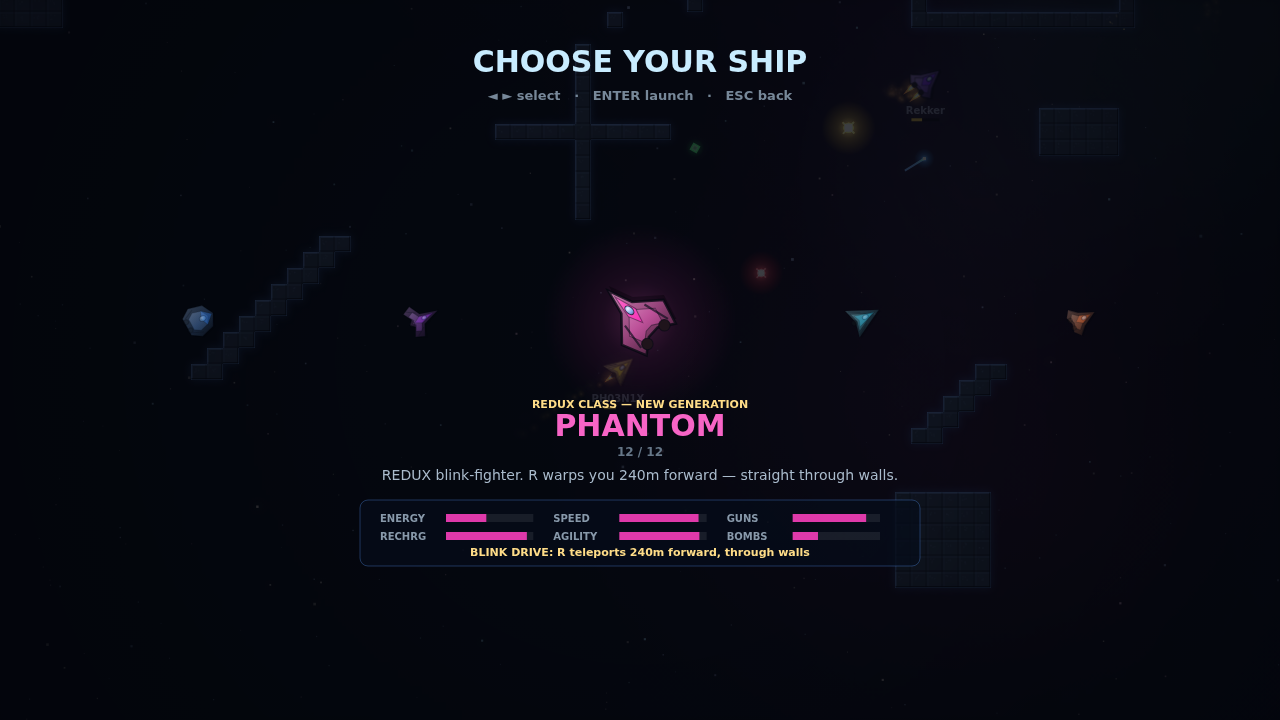
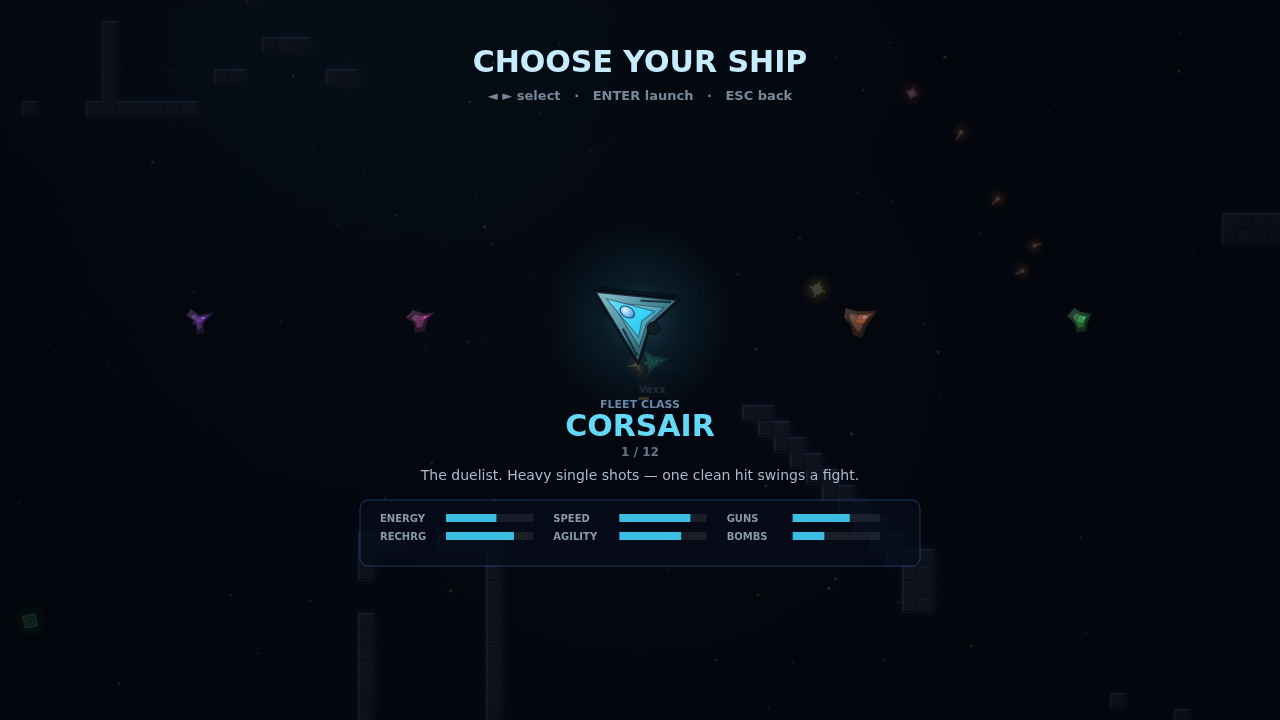
Make Interstellar fully standalone: new fleet names, no tribute credits
Rename the eight fleet hulls to original Interstellar names:
Corsair, Meteor, Hornet, Titan, Comet, Dagger, Paladin, Warden
(same roles and stats; internal type keys renamed to match). The NOVA
class (Vanguard, Aegis, Reaper, Phantom) is unchanged.

Remove the remaining inspiration credits: the title-screen line, README
references, and code comments now describe the game entirely in its own
terms. Select screen labels the base hulls FLEET CLASS.

Claude-Session: https://claude.ai/code/session_01B8hcSvZjcaomtossQcuxbY

diff --git a/sim.js b/sim.js
@@ -3,7 +3,7 @@
    Runs identically in the browser (window.SIM) and Node (module.exports).
    No DOM, no audio, no rendering — pure world state + events.
 
-   Netcode model (SubSpace-style relay):
+   Netcode model (owner-trusting relay):
    - Each peer fully simulates its LOCAL ships (the player on a client,
      the bots on the server). Remote ships are "ghosts": position-driven
      from network state, never damaged locally, but targetable/collidable.
@@ -42,14 +42,14 @@
   }
 
   // ------------------------------------------------------------ ship types
-  // Full classic SubSpace roster. Visual fields (shape/accent/deco/cockpit/
+  // The Interstellar fleet. Visual fields (shape/accent/deco/cockpit/
   // engines) are unit-space polygons scaled by radius at draw time, nose +x.
-  const SHIP_ORDER = ['warbird', 'javelin', 'spider', 'leviathan', 'terrier', 'weasel', 'lancaster', 'shark',
+  const SHIP_ORDER = ['corsair', 'meteor', 'hornet', 'titan', 'comet', 'dagger', 'paladin', 'warden',
     'vanguard', 'aegis', 'reaper', 'phantom'];
   const SHIP_TYPES = {
-    warbird: {
-      label: 'Warbird', hue: 192,
-      desc: 'The classic duelist. Heavy single shots — one clean hit swings a fight.',
+    corsair: {
+      label: 'Corsair', hue: 192,
+      desc: 'The duelist. Heavy single shots — one clean hit swings a fight.',
       maxEnergy: 1500, recharge: 105, thrust: 235, maxSpeed: 350, turn: 3.4,
       radius: 11, bounce: 0.6,
       gunLevel: 2, gunDelay: 0.55, gunCost: 150, gunSpeed: 680, gunDmgMul: 1.15,
@@ -59,8 +59,8 @@
       deco: [[[0.25, 0.42], [-0.42, 0.8]], [[0.25, -0.42], [-0.42, -0.8]]],
       cockpit: [0.38, 0, 0.2, 0.13], engines: [[-0.4, 0]],
     },
-    javelin: {
-      label: 'Javelin', hue: 18,
+    meteor: {
+      label: 'Meteor', hue: 18,
       desc: 'Bomber. Splash artillery with bouncing bombs that clear whole corridors.',
       maxEnergy: 1700, recharge: 95, thrust: 200, maxSpeed: 310, turn: 3.0,
       radius: 12, bounce: 0.5,
@@ -71,8 +71,8 @@
       deco: [[[0.1, 0.5], [-0.35, 0.9]], [[0.1, -0.5], [-0.35, -0.9]]],
       cockpit: [0.32, 0, 0.19, 0.13], engines: [[-0.62, 0.3], [-0.62, -0.3]],
     },
-    spider: {
-      label: 'Spider', hue: 130,
+    hornet: {
+      label: 'Hornet', hue: 130,
       desc: 'Bullet hose. Weak pellets, relentless rate of fire, monster recharge.',
       maxEnergy: 1400, recharge: 135, thrust: 215, maxSpeed: 330, turn: 3.6,
       radius: 11, bounce: 0.55,
@@ -83,8 +83,8 @@
       deco: [[[0.3, 0.55], [-0.1, 0.95]], [[0.3, -0.55], [-0.1, -0.95]], [[-0.2, 0.7], [-0.6, 0.72]], [[-0.2, -0.7], [-0.6, -0.72]]],
       cockpit: [0.3, 0, 0.17, 0.14], engines: [[-0.55, 0.36], [-0.55, -0.36]],
     },
-    leviathan: {
-      label: 'Leviathan', hue: 355,
+    titan: {
+      label: 'Titan', hue: 355,
       desc: 'The dreadnought. Glacial, colossal energy, level-3 bombs that erase rooms.',
       maxEnergy: 2600, recharge: 70, thrust: 125, maxSpeed: 240, turn: 2.1,
       radius: 15, bounce: 0.4,
@@ -95,8 +95,8 @@
       deco: [[[0.3, 0.72], [-0.7, 0.72]], [[0.3, -0.72], [-0.7, -0.72]], [[-0.2, 0.45], [-0.2, -0.45]]],
       cockpit: [0.35, 0, 0.24, 0.19], engines: [[-0.92, 0.28], [-0.92, -0.28]],
     },
-    terrier: {
-      label: 'Terrier', hue: 282,
+    comet: {
+      label: 'Comet', hue: 282,
       desc: 'Interceptor. Fastest hull in the zone — hit, run, and never stop moving.',
       maxEnergy: 1250, recharge: 120, thrust: 285, maxSpeed: 410, turn: 4.3,
       radius: 10, bounce: 0.65,
@@ -107,8 +107,8 @@
       deco: [[[-0.05, 0.5], [-0.75, 0.72]], [[-0.05, -0.5], [-0.75, -0.72]]],
       cockpit: [0.32, 0, 0.18, 0.11], engines: [[-0.55, 0]],
     },
-    weasel: {
-      label: 'Weasel', hue: 55,
+    dagger: {
+      label: 'Dagger', hue: 55,
       desc: 'Assassin. Tiny, half-invisible, off enemy radar. Fragile as glass.',
       maxEnergy: 1000, recharge: 130, thrust: 300, maxSpeed: 430, turn: 4.8,
       radius: 8, bounce: 0.7, stealth: true,
@@ -119,9 +119,9 @@
       deco: [[[0.1, 0.28], [-0.55, 0.28]], [[0.1, -0.28], [-0.55, -0.28]]],
       cockpit: [0.25, 0, 0.15, 0.1], engines: [[-0.55, 0]],
     },
-    lancaster: {
-      label: 'Lancaster', hue: 210,
-      desc: 'The all-rounder. Batwing hull, dependable guns, no bad matchups.',
+    paladin: {
+      label: 'Paladin', hue: 210,
+      desc: 'The all-rounder. Broad wings, dependable guns, no bad matchups.',
       maxEnergy: 1600, recharge: 115, thrust: 225, maxSpeed: 340, turn: 3.2,
       radius: 12, bounce: 0.55,
       gunLevel: 2, gunDelay: 0.42, gunCost: 110, gunSpeed: 640, gunDmgMul: 1.0,
@@ -131,8 +131,8 @@
       deco: [[[0.4, 0.6], [-0.5, 0.6]], [[0.4, -0.6], [-0.5, -0.6]]],
       cockpit: [0.28, 0, 0.19, 0.15], engines: [[-0.75, 0]],
     },
-    shark: {
-      label: 'Shark', hue: 165,
+    warden: {
+      label: 'Warden', hue: 165,
       desc: 'Support hunter. Carries a rack of self-restocking repels and mean bombs.',
       maxEnergy: 1450, recharge: 110, thrust: 240, maxSpeed: 345, turn: 3.5,
       radius: 11, bounce: 0.6, repelStart: 3, repelCap: 4, repelRegen: 18,
@@ -784,7 +784,7 @@
     if (s.safe > 0) s.safe -= dt;
     if (s.flash > 0) s.flash -= dt;
 
-    // shark repel rack regen
+    // warden repel rack regen
     if (s.t.repelRegen) {
       s.regenT += dt;
       if (s.regenT >= s.t.repelRegen) {

diff --git a/dev/smoke.js b/dev/smoke.js
@@ -33,8 +33,8 @@ const SIM = require(path.join(ROOT, 'sim.js'));
 
   SIM.addBots(W, 10);
   assert(W.ships.length === 10, 'ten bots spawned');
-  assert(Object.keys(SIM.SHIP_TYPES).length === 12, '8 classic + 4 NOVA hulls exist');
-  for (const key of ['warbird', 'javelin', 'spider', 'leviathan', 'terrier', 'weasel', 'lancaster', 'shark',
+  assert(Object.keys(SIM.SHIP_TYPES).length === 12, '8 fleet + 4 NOVA hulls exist');
+  for (const key of ['corsair', 'meteor', 'hornet', 'titan', 'comet', 'dagger', 'paladin', 'warden',
     'vanguard', 'aegis', 'reaper', 'phantom'])
     assert(SIM.SHIP_TYPES[key], 'ship type ' + key + ' exists');
 
@@ -45,7 +45,7 @@ const SIM = require(path.join(ROOT, 'sim.js'));
     assert(van.multi && van.bounceBullets, 'vanguard ships factory multifire + ricochet');
 
     const aeg = SIM.makeShip(Wm, 'aegis', 'local', 'Aeg', 215);
-    const wb = SIM.makeShip(Wm, 'warbird', 'local', 'Wb', 190);
+    const wb = SIM.makeShip(Wm, 'corsair', 'local', 'Wb', 190);
     aeg.x = wb.x = 500; aeg.y = wb.y = 500;
     const e0 = aeg.energy;
     SIM.damageShip(Wm, aeg, 1000, wb);
@@ -72,7 +72,7 @@ const SIM = require(path.join(ROOT, 'sim.js'));
     assert(evs.some(e => e.e === 'hit' && typeof e.att === 'number'), 'hit events carry attacker id');
   }
 
-  const me = SIM.makeShip(W, 'warbird', 'local', 'Tester', 190);
+  const me = SIM.makeShip(W, 'corsair', 'local', 'Tester', 190);
   SIM.spawnShip(W, me);
   SIM.drainEvents(W);
 
@@ -97,7 +97,7 @@ const SIM = require(path.join(ROOT, 'sim.js'));
   assert(deaths > 0, 'deaths occurred: ' + deaths);
 
   // remote ghost mechanics
-  const ghost = SIM.makeShip(W, 'weasel', 'remote', 'Ghost', 60);
+  const ghost = SIM.makeShip(W, 'dagger', 'remote', 'Ghost', 60);
   ghost.netX = 500; ghost.netY = 500; ghost.netVx = 0; ghost.netVy = 0; ghost.netFrac = 1;
   ghost.x = 400; ghost.y = 400;
   for (let i = 0; i < 120; i++) SIM.updateWorld(W, SIM.STEP);
@@ -165,8 +165,8 @@ const SIM = require(path.join(ROOT, 'sim.js'));
   for (let i = 0; i < 240; i++) update(STEP);
   render();
 
-  const p = startSolo('leviathan');
-  assert(G.state === 'play' && !p.remote && p.type === 'leviathan', 'solo game started in a leviathan');
+  const p = startSolo('titan');
+  assert(G.state === 'play' && !p.remote && p.type === 'titan', 'solo game started in a titan');
   api.keys.KeyW = true; api.keys.Space = true;
   let sawMsg = false;
   for (let i = 0; i < 30 * 60; i++) {
@@ -180,10 +180,10 @@ const SIM = require(path.join(ROOT, 'sim.js'));
 
   // fake a server welcome to exercise the online path (no real socket)
   G.net = { readyState: 1, send() { }, close() { } };
-  G.online = true; G.name = 'Tester'; G.pendingShip = 'spider';
+  G.online = true; G.name = 'Tester'; G.pendingShip = 'hornet';
   api.handleNet({
     t: 'welcome', id: 501, hue: 8, seed: 777,
-    roster: [{ id: 400, name: 'RemoteBot', ship: 'shark', hue: 100, bot: 1, kills: 0, deaths: 0, score: 0, x: 1000, y: 1000 }],
+    roster: [{ id: 400, name: 'RemoteBot', ship: 'warden', hue: 100, bot: 1, kills: 0, deaths: 0, score: 0, x: 1000, y: 1000 }],
     prizes: [[9, 800, 800]],
   });
   assert(G.player && G.player.id === 501, 'online welcome created player');
@@ -241,10 +241,10 @@ const SIM = require(path.join(ROOT, 'sim.js'));
         setTimeout(() => reject(new Error('welcome timeout for ' + name)), 4000);
       });
     }
-    const A = await client('Alice', 'warbird');
+    const A = await client('Alice', 'corsair');
     assert(A.welcome.id > 0 && Number.isFinite(A.welcome.seed), 'A got welcome with id+seed');
     assert(A.welcome.roster.length === 4, 'A sees 4 bots in roster');
-    const B = await client('Bob', 'shark');
+    const B = await client('Bob', 'warden');
     assert(B.welcome.roster.some(r => r.name === 'Alice'), 'B sees Alice in roster');
 
     // A should be told about B joining

diff --git a/client.js b/client.js
@@ -1,7 +1,7 @@
 /* =========================================================================
    INTERSTELLAR — browser client
-   Rendering (neon + bloom), input, menus, audio, and SubSpace-style
-   relay netcode. All world simulation lives in sim.js (shared with the
+   Rendering (sprites + bloom), input, menus, audio, and the relay
+   netcode client. All world simulation lives in sim.js (shared with the
    server); this file owns everything the player sees and hears.
    ========================================================================= */
 (function () {
@@ -675,9 +675,8 @@
   }
 
   // ---------------------------------------------------------------- ship art
-  // Honors the original Continuum look: ships are solid, metallic, shaded
-  // craft lit from the screen's top-left, rendered through a 36-frame
-  // rotation atlas — exactly how the original's pre-rendered sprites felt.
+  // Ships are solid, metallic, shaded craft lit from the screen's top-left,
+  // rendered through a 36-frame rotation atlas for a crisp baked-sprite feel.
   const ROT_FRAMES = 36;
 
   function tracePolyOn(g, pts, r) {
@@ -902,7 +901,7 @@
   }
 
   // ---------------------------------------------------------------- world render
-  // original SubSpace level colors: L1 red-orange, L2 yellow, L3 blue
+  // weapon level colors: L1 red-orange, L2 yellow, L3 blue
   const BULLET_HUES = { 1: 18, 2: 52, 3: 205 };
   const BOMB_HUES = { 1: 4, 2: 52, 3: 210 };
   function drawWorld() {
@@ -1168,7 +1167,7 @@
         ctx.fillStyle = (G.time * 4 | 0) % 2 ? '#fff' : '#8ef';
         ctx.fillRect(rx + s.x * k - 2, ry + s.y * k - 2, 4, 4);
       } else {
-        if (s.t.stealth) continue; // weasels don't paint on radar
+        if (s.t.stealth) continue; // daggers don't paint on radar
         ctx.fillStyle = 'rgba(255,120,90,0.9)';
         ctx.fillRect(rx + s.x * k - 1.5, ry + s.y * k - 1.5, 3, 3);
       }
@@ -1202,7 +1201,6 @@
     ctx.shadowColor = 'rgba(255,180,80,0.8)';
     txt('T O P - D O W N   S P A C E   C O M B A T', vw / 2, vh / 2 - 26, 16, '#ffd9a0', 'center', 700);
     ctx.restore();
-    txt('inspired by the classic SubSpace / Continuum', vw / 2, vh / 2 + 8, 13, '#7a8ca8', 'center');
     const blink = Math.sin(G.time * 4) > -0.3;
     if (blink) txt('ENTER — fly solo vs bots', vw / 2, vh / 2 + 66, 20, '#cff', 'center', 700);
     txt('O — online multiplayer', vw / 2, vh / 2 + 98, 17, '#8fd4a8', 'center', 700);
@@ -1250,7 +1248,7 @@
 
     const t = SHIP_TYPES[SHIP_ORDER[G.sel]];
     const isNova = t.cls === 'nova';
-    txt(isNova ? 'NOVA CLASS — NEW GENERATION' : 'CLASSIC HULL', vw / 2, cy + 88, 11,
+    txt(isNova ? 'NOVA CLASS — NEW GENERATION' : 'FLEET CLASS', vw / 2, cy + 88, 11,
       isNova ? '#fd8' : '#68a', 'center', 700);
     txt(t.label.toUpperCase(), vw / 2, cy + 116, 30, 'hsla(' + t.hue + ',90%,68%,1)', 'center', 800);
     txt((G.sel + 1) + ' / ' + n, vw / 2, cy + 136, 12, '#678', 'center');

diff --git a/server.js b/server.js
@@ -4,7 +4,7 @@
    Zero-dependency Node server: static file host + hand-rolled RFC 6455
    WebSocket endpoint on ONE port, running the shared sim for the bots.
 
-   Netcode is SubSpace-style relay: each client owns its own ship
+   Netcode is an owner-trusting relay: each client owns its own ship
    (position, energy, death) and the server relays state, fire events,
    kills, chat and scores. The server authoritatively runs bots + prizes.
 

diff --git a/README.md b/README.md
@@ -1,11 +1,10 @@
 # Interstellar
 
-**Interstellar** is a modern, from-scratch top-down space combat game for the
-browser — inertial flight, energy warfare, and zone chat, inspired by the
-classic **SubSpace / Continuum** but very much its own game: sprite-shaded
-ships with bloom and particles, synthesized audio, a **12-ship hangar**
-(8 classic-style hulls plus the new NOVA class), and **real online
-multiplayer** via a zero-dependency Node server.
+**Interstellar** is a top-down space combat game for the browser — inertial
+flight, energy warfare, and zone chat, built from scratch with no engine and
+no dependencies: sprite-shaded ships with bloom and particles, synthesized
+audio, a **12-ship hangar** (the 8 fleet hulls plus the NOVA class), and
+**real online multiplayer** via a zero-dependency Node server.
 
 ![Combat](assets/combat.png)
 
@@ -25,29 +24,28 @@ Pick a callsign and a ship, and you're all in the same zone together with the
 server's bots. `PORT=9000 BOTS=4 node server.js` to customize. A different
 server can be targeted with `?server=host:port` in the URL.
 
-The netcode is SubSpace-style relay, like the original: each client owns its
-ship, the server authoritatively runs bots and prizes and relays state, fire
-events, kills, scores, and chat (**Enter** to talk) at 15–20 Hz with
-dead-reckoning interpolation for remote ships. Both sides run the same
-simulation code (`sim.js`) on the same map seed.
+The netcode is an owner-trusting relay: each client owns its ship, the
+server authoritatively runs bots and prizes and relays state, fire events,
+kills, scores, and chat (**Enter** to talk) at 15–20 Hz with dead-reckoning
+interpolation for remote ships. Both sides run the same simulation code
+(`sim.js`) on the same map seed.
 
-## The hangar — 8 classic hulls + the new NOVA class
+## The hangar — 8 fleet hulls + the NOVA class
 
 ![Ship select](assets/select.png)
 
 | Ship | Character |
 | --- | --- |
-| **Warbird** | The classic duelist — heavy single shots |
-| **Javelin** | Bomber with bouncing splash artillery |
-| **Spider** | Rapid-fire bullet hose, monster recharge |
-| **Leviathan** | Slow dreadnought, colossal energy, L3 bombs |
-| **Terrier** | Fastest interceptor in the zone |
-| **Weasel** | Tiny assassin — off enemy radar, dim to the eye |
-| **Lancaster** | Batwing all-rounder with dependable guns |
-| **Shark** | Support hunter with a self-restocking repel rack |
+| **Corsair** | The duelist — heavy single shots |
+| **Meteor** | Bomber with bouncing splash artillery |
+| **Hornet** | Rapid-fire bullet hose, monster recharge |
+| **Titan** | Slow dreadnought, colossal energy, L3 bombs |
+| **Comet** | Fastest interceptor in the zone |
+| **Dagger** | Tiny assassin — off enemy radar, dim to the eye |
+| **Paladin** | Broad-winged all-rounder with dependable guns |
+| **Warden** | Support hunter with a self-restocking repel rack |
 
-Because this is the next iteration of the zone, a new generation of hulls
-joins the classic eight — each with a mechanic the originals never had:
+A new generation of hulls joins the fleet — each with a mechanic all its own:
 
 | NOVA ship | New mechanic |
 | --- | --- |
@@ -56,32 +54,33 @@ joins the classic eight — each with a mechanic the originals never had:
 | **Reaper** | Leeches 30% of the damage it deals back as energy |
 | **Phantom** | Blink drive: `R` teleports 240m forward — straight through walls |
 
-## What's faithful to SubSpace
+## The combat system
 
 - **Inertial flight** — no friction, no brakes; ships ricochet off walls.
 - **Energy warfare** — one bar is shields *and* ammo; a hit that lands with
   nothing left kills you.
 - **Leveled weapons** — L1–L3 color-coded bullets and bombs with splash,
-  knockback, proximity fuses, wall bounces, and traditional self-damage.
+  knockback, proximity fuses, wall bounces — and your own bombs hurt you.
 - **Greens** — anonymous prize boxes: gun/bomb upgrades, MultiFire, bouncing
   bullets, repels, bursts, rockets, energy/recharge/thrust/speed boosts.
 - **Repel / Burst / Rocket** specials, corner radar, green kill-feed chat,
-  bounty, and full loadout reset on death.
+  bounty, and full loadout reset on death — dying costs you everything you
+  collected, which is exactly why it matters.
 
-## The look — honoring the original, then modernizing it
+## The look
 
 ![Online multiplayer](assets/online.png)
 
 - Ships are **solid, metallic, shaded craft** rendered through **36-frame
-  rotation sprite atlases with fixed top-left lighting** — the same
-  pre-rendered-sprite feel (and rotation snap) the original had, drawn
+  rotation sprite atlases with fixed top-left lighting** — a crisp
+  pre-rendered-sprite feel with baked lighting and rotation snap, drawn
   procedurally with hull plates, team-color accents, panel seams, engine
   nozzles, and cockpit glass with specular glints.
 - Maps are **solid chunky bevelled tiles** with per-tile tonal variation and
   rock speckle, edged with a faint energized rim — steel and stone, not
   wireframe.
-- Bullets and bombs use the original's **level colors** (L1 red-orange,
-  L2 yellow, L3 blue); space is near-black with a whisper of nebula.
+- Bullets and bombs wear their **level colors** (L1 red-orange, L2 yellow,
+  L3 blue); space is near-black with a whisper of nebula.
 - On top of that, the modern layer: subtle bloom post-processing, engine
   flames with white-hot cores, motion trails, debris and shockwave
   explosions, muzzle flashes, hex spawn shields, blink warp effects, and
@@ -125,7 +124,7 @@ node dev/smoke.js         # run all three test layers
 
 ## Roadmap ideas
 
-- Mines, decoys, portals, and thors
-- Team frequencies, flag and powerball (soccer) modes
-- Server-side anti-cheat validation (the relay model trusts clients, as the original did)
+- Mines, decoys, and portals
+- Teams, flag capture, and ball-game modes
+- Server-side anti-cheat validation (the relay model trusts clients)
 - Gamepad and touch controls
